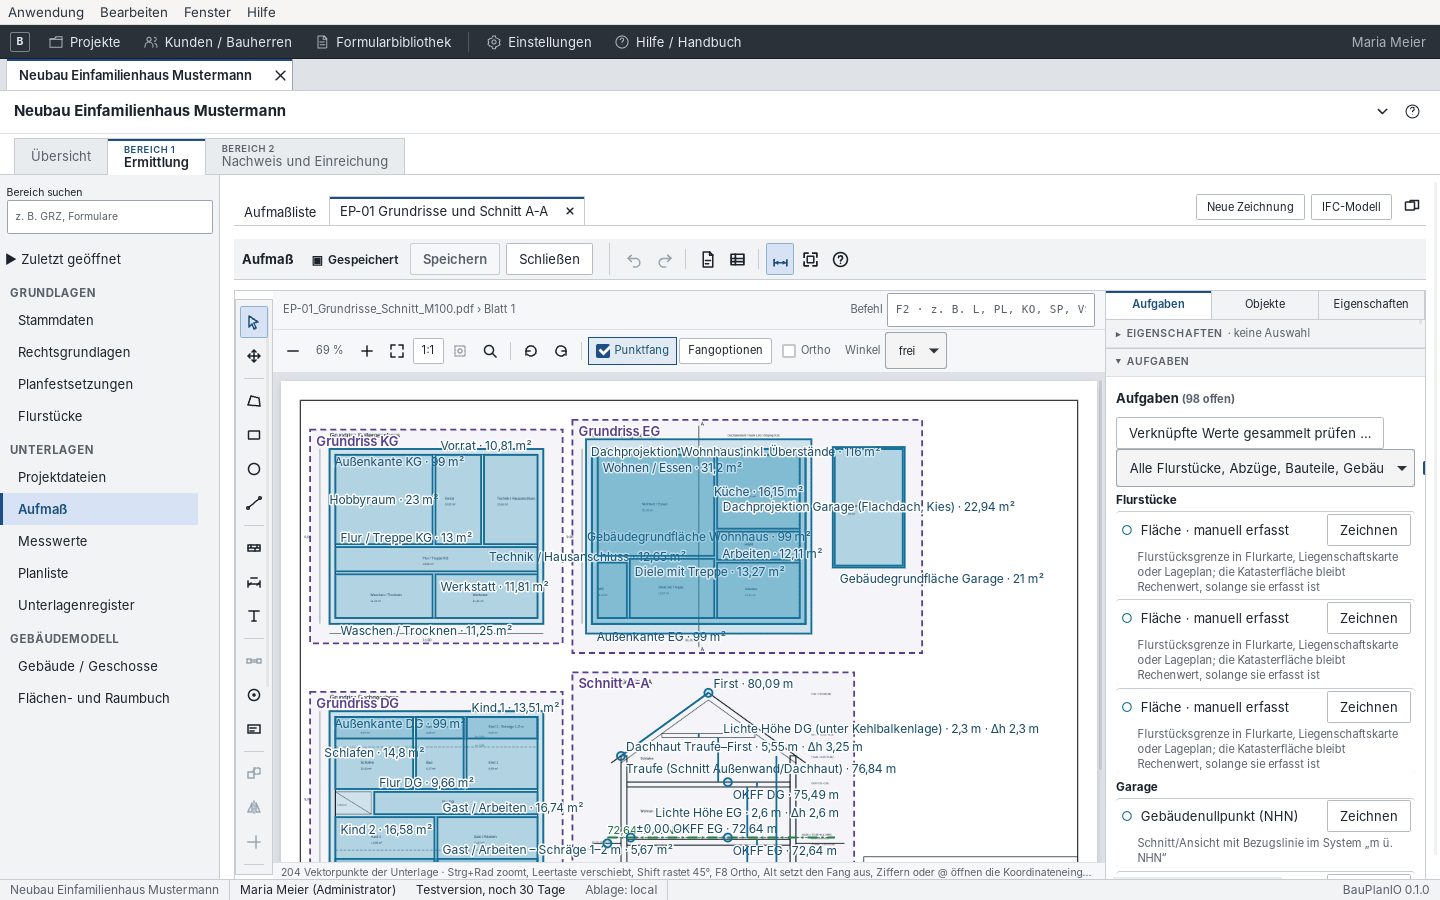
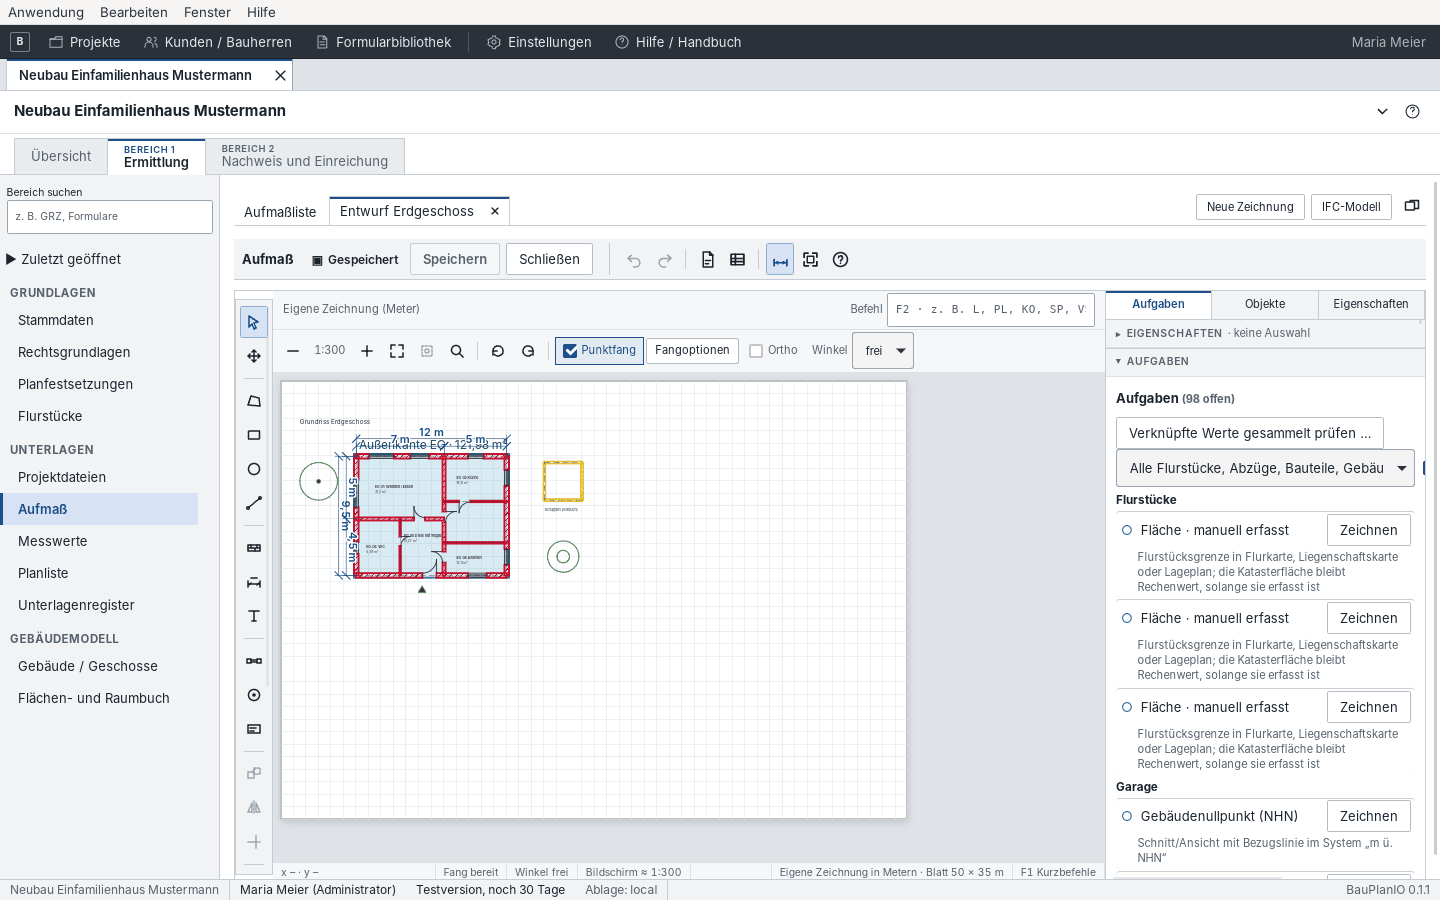
Zeicheneditor: Statusleiste in Feldern, Öffnungen passend, Auswahl im Palettenkopf
- Statusleiste zeigt Zeigerposition, Fang, Ortho/Winkel, Bildschirmmaßstab
  und Unterlage als Felder; die Tastenerklärung steht nur noch unter F1.
- Eigene Zeichnungen zeigen statt Zoomprozent den Bildschirmmaßstab 1:n.
- Kopf der Eigenschaften nennt auch gewählte Zeichenelemente statt
  „keine Auswahl“.
- Öffnungen einer Wand als zweizeilige Gruppen statt abgeschnittener Tabelle.
- Neue Auswahl setzt die Palettenspalte wieder an den Anfang.

Claude-Session: https://claude.ai/code/session_01292Y8gDm8pi6EMJRAxpPjM

diff --git a/apps/desktop/src/lib/planaufmass/Planaufmass.svelte b/apps/desktop/src/lib/planaufmass/Planaufmass.svelte
@@ -119,6 +119,9 @@
   let betrachterSeite=$state<number|null>(null),sichtbarkeit=$state<Record<string,boolean>>({});
   let aktiv=$state(""),rahmenAuswahl=$state(""),vollbild=$state(false),masse=$state(true),hoeheEditor=$state(560);
   // Zeichenelemente und Hintergründe eigener Zeichnungen.
+  let paletten=$state<HTMLElement>();
+  // Neue Auswahl: Eigenschaften stehen oben, die Spalte beginnt wieder am Anfang.
+  $effect(()=>{void auswahl;void elementAuswahl;if(panel==="eigenschaften")untrack(()=>paletten?.scrollTo({top:0}))});
   let elementAuswahl=$state(""),wanddicke=$state(.24),elementAuswahlIds=$state<string[]>([]);
   // Konstruktionsbefehle: Versatz und Reihe in Metern, Spiegeln wahlweise als Kopie.
   let konstruktion=$state({versatz:.5,anzahl:3,dx:1,dy:0,spiegelKopie:true});
@@ -181,6 +184,9 @@
   });
   let hgDatei=$state(""),hgSeite=$state(1),hgStrecke=$state(10),hgZiel=$state(""),hgWinkel=$state(0);
   const el=$derived(s.eingabe?.elemente?.find(e=>e.id===elementAuswahl));
+  const ELEMENTNAMEN:Record<string,string>={wand:"Wand",masskette:"Maßkette",symbol:"Planzeichen",raumstempel:"Raumstempel",text:"Text"};
+  // Kopfzeile der Eigenschaften: Markierungen und Zeichenelemente zählen gemeinsam.
+  const auswahlTitel=$derived.by(()=>{const n=auswahlIds.length+elementAuswahlIds.length;if(n>1)return `· ${n} ausgewählt`;if(m)return `· ${m.bezeichnung}`;if(el)return `· ${ELEMENTNAMEN[el.art]??"Zeichenelement"}`;return "· keine Auswahl"});
   const elementGesperrt=$derived(!darf||s.laeuft||!!s.eingabe?.ebenen.find(e=>e.id===el?.ebene_id)?.gesperrt);
   const istZeichnung=$derived(!!s.eingabe&&!s.eingabe.dokument);
   const einheitText=$derived(istZeichnung?"m":"Seitenpunkte");
@@ -867,7 +873,7 @@
         <button type="button" disabled={!darf||s.laeuft||!s.hatAenderungen()} onclick={()=>void s.speichern()}>Aufmaß speichern</button>
         <span class="editorwerkzeuge">{@render editorwerkzeuge()}</span>
       </div>{/if}
-      {#if hilfe}<section class="kurzbefehle" aria-label="Kurzbefehle"><strong>Zeichnen und navigieren</strong><p>V Auswählen · M Verschieben · P Polygon · R Rechteck · K Kreis · S Strecke · W Wand · L Maßkette · X Text · H Höhenpunkt · Z Zoomfenster · F11 Vollbild · F1 Hilfe</p><p>Strg+Rad zoomt · Leertaste verschiebt · Shift bindet Winkel · Alt setzt Fang aus · Shift+Klick erweitert die Auswahl · Pfeile verschieben die Auswahl · Enter schließt · Escape verwirft die laufende Aktion · Strg+Z zurück · Strg+Y / Strg+Shift+Z wiederholen.</p></section>{/if}
+      {#if hilfe}<section class="kurzbefehle" aria-label="Kurzbefehle"><strong>Zeichnen und navigieren</strong><p>V Auswählen · M Verschieben · P Polygon · R Rechteck · K Kreis · S Strecke · W Wand · L Maßkette · X Text · H Höhenpunkt · Z Zoomfenster · F11 Vollbild · F1 Hilfe</p><p>Strg+Rad zoomt · Leertaste verschiebt · Shift bindet Winkel · F8 Ortho · Alt setzt Fang aus · Ziffern oder @ öffnen die Koordinateneingabe · Shift+Klick erweitert die Auswahl · Pfeile verschieben die Auswahl · Enter schließt bzw. wiederholt den letzten Befehl · Escape verwirft die laufende Aktion · Strg+Z zurück · Strg+Y / Strg+Shift+Z wiederholen.</p></section>{/if}
       {#if vorlage}<p role="status" class="hinweisbox schmal">Vorlage <strong>{vorlage.titel}</strong> ({bedeutungen.find(b=>b[0]===vorlage!.bedeutung)?.[1]}) auf Ebene „{aktiv?layer?.bezeichnung??vorlage.ebene:vorlage.ebene}“ · {vorlage.hinweis}. <button type="button" class="link" onclick={()=>{vorlage=null;werkzeug="auswahl"}}>Abbrechen</button></p>{/if}
       {#if vorbelegung}<p role="status" class="hinweisbox schmal">Zeichnen für <strong>{vorbelegung.gruppe} · {vorbelegung.titel}</strong> ({bedeutungen.find(b=>b[0]===vorbelegung!.bedeutung)?.[1]}){vorbelegung.hinweis?` · ${vorbelegung.hinweis}`:""}. Bedeutung und Zuordnung werden gesetzt. <button type="button" class="link" onclick={()=>{vorbelegung=null;werkzeug="auswahl"}}>Abbrechen</button></p>{/if}
       {#if werkzeug==="hgstrecke"||werkzeug==="hgverschieben"||werkzeug==="hgdrehen"}<p role="status" class="hinweisbox schmal">{werkzeug==="hgstrecke"?`Auf dem Hintergrund Anfang und Ende einer bekannten Strecke (${z(hgStrecke)} m) anklicken; der Hintergrund wird darauf skaliert.`:werkzeug==="hgverschieben"?"Einen Punkt des Hintergrunds und dann seine Zielposition anklicken.":`Den Drehpunkt anklicken; der Hintergrund dreht sich um ${z(hgWinkel)}°.`}</p>{/if}
@@ -924,22 +930,25 @@
           {:else}<p class="meta leer">{laedt?"Unterlage wird geladen …":"Unter „Blatt und Einrichtung“ eine Unterlage auswählen."}</p>{/if}
           {#if messFehler}<p class="fehlertext" role="alert">Aufmaß prüfen: {messFehler}</p>{/if}
         </div>
-        <aside>
+        <aside bind:this={paletten}>
           <nav class="panelwahl" aria-label="Planpanel">{#each [["aufgaben","Aufgaben"],["objekte","Objekte"],["eigenschaften","Eigenschaften"]] as [id,titel]}<button type="button" class="sekundaer" class:aktiv={panel===id} aria-pressed={panel===id} onclick={()=>panelOeffnen(id)}>{titel}</button>{/each}</nav>
           <details class="palette" bind:open={offen.eigenschaften}>
-            <summary><h3>Eigenschaften</h3> <span class="meta">{m?`· ${m.bezeichnung}`:auswahlIds.length>1?`· ${auswahlIds.length} ausgewählt`:"· keine Auswahl"}</span></summary>
+            <summary><h3>Eigenschaften</h3> <span class="meta">{auswahlTitel}</span></summary>
             {#if el}
               <fieldset disabled={elementGesperrt} class="element-eigenschaften" aria-label="Zeichenelement">
                 <legend>{el.art==="wand"?"Wand":el.art==="masskette"?"Maßkette":el.art==="symbol"?"Planzeichen":el.art==="raumstempel"?"Raumstempel":"Text"}</legend>
                 {#if el.art==="wand"}<label>Wanddicke (m)<input type="number" min=".01" max="10" step=".01" bind:value={el.dicke_m}/></label>
-                  {#if el.oeffnungen?.length}<div class="oeffnungen-rahmen"><table class="oeffnungen"><thead><tr><th>Art</th><th>ab (m)</th><th>Breite</th><th>Höhe</th><th>Brüstung</th><th>Anschlag</th><th></th></tr></thead><tbody>
-                    {#each el.oeffnungen as o,i}<tr><td><select aria-label="Art" bind:value={o.art}><option value="fenster">Fenster</option><option value="tuer">Tür</option></select></td>
-                      <td><input type="number" min="0" step=".01" aria-label="Lage ab Wandanfang" bind:value={o.lage_m}/></td><td><input type="number" min=".1" step=".005" aria-label="Breite" bind:value={o.breite_m}/></td>
-                      <td><input type="number" min="0" step=".005" aria-label="Höhe" value={o.hoehe_m??""} onchange={e=>{const v=e.currentTarget.value;if(v)o.hoehe_m=Number(v);else delete o.hoehe_m}}/></td>
-                      <td>{#if o.art==="fenster"}<input type="number" min="0" step=".005" aria-label="Brüstung" value={o.bruestung_m??""} onchange={e=>{const v=e.currentTarget.value;if(v)o.bruestung_m=Number(v);else delete o.bruestung_m}}/>{/if}</td>
-                      <td>{#if o.art==="tuer"}<select aria-label="Anschlag" bind:value={o.links}><option value={false}>rechts</option><option value={true}>links</option></select>{/if}</td>
-                      <td><button type="button" class="link" onclick={()=>{if(el?.art==="wand"){merken();el.oeffnungen=el.oeffnungen!.filter((_,j)=>j!==i)}}}>Entfernen</button></td></tr>{/each}
-                  </tbody></table></div>{:else}<p class="meta">Fenster und Türen mit dem Werkzeug „Fenster / Tür“ (F) in die Wand klicken.</p>{/if}
+                  {#if el.oeffnungen?.length}<div class="oeffnungen">
+                    {#each el.oeffnungen as o,i}<div class="oeffnung" role="group" aria-label={`Öffnung ${i+1}`}>
+                      <label>Art<select aria-label="Art" bind:value={o.art}><option value="fenster">Fenster</option><option value="tuer">Tür</option></select></label>
+                      <label>ab (m)<input type="number" min="0" step=".01" aria-label="Lage ab Wandanfang" bind:value={o.lage_m}/></label>
+                      <label>Breite<input type="number" min=".1" step=".005" aria-label="Breite" bind:value={o.breite_m}/></label>
+                      <button type="button" class="link entfernen" title="Öffnung entfernen" aria-label="Öffnung entfernen" onclick={()=>{if(el?.art==="wand"){merken();el.oeffnungen=el.oeffnungen!.filter((_,j)=>j!==i)}}}>✕</button>
+                      <label>Höhe<input type="number" min="0" step=".005" aria-label="Höhe" value={o.hoehe_m??""} onchange={e=>{const v=e.currentTarget.value;if(v)o.hoehe_m=Number(v);else delete o.hoehe_m}}/></label>
+                      {#if o.art==="fenster"}<label>Brüstung<input type="number" min="0" step=".005" aria-label="Brüstung" value={o.bruestung_m??""} onchange={e=>{const v=e.currentTarget.value;if(v)o.bruestung_m=Number(v);else delete o.bruestung_m}}/></label>
+                      {:else}<label>Anschlag<select aria-label="Anschlag" bind:value={o.links}><option value={false}>rechts</option><option value={true}>links</option></select></label>{/if}
+                    </div>{/each}
+                  </div>{:else}<p class="meta">Fenster und Türen mit dem Werkzeug „Fenster / Tür“ (F) in die Wand klicken.</p>{/if}
                 {:else if el.art==="symbol"}<label>Planzeichen<select bind:value={el.symbol}>{#each PLANSYMBOLE as [v,t]}<option value={v}>{t}</option>{/each}</select></label><label>Größe ({einheitText})<input type="number" min=".01" step="any" bind:value={el.groesse}/></label><label>Drehung (°)<input type="number" step="any" bind:value={el.drehung_grad}/></label>
                 {:else if el.art==="raumstempel"}<label>Raum<select value={`${el.raumbuch_id}|${el.raum_id}`} onchange={e=>{const [a,b]=e.currentTarget.value.split("|");if(el?.art==="raumstempel"&&b){el.raumbuch_id=a;el.raum_id=b}}}>{#if !raeume[el.raum_id]}<option value={`${el.raumbuch_id}|${el.raum_id}`}>Raum fehlt im Raumbuch</option>{/if}{#each raumbuecher as rb (rb.objekt)}<optgroup label={rb.daten.bezeichnung}>{#each rb.daten.raeume as r (r.id)}<option value={`${rb.objekt}|${r.id}`}>{r.nummer} {r.bezeichnung}</option>{/each}</optgroup>{/each}</select></label><label>Schrifthöhe ({einheitText})<input type="number" min=".01" step="any" bind:value={el.hoehe}/></label>
                 {:else if el.art==="masskette"}<label>Abstand der Maßlinie ({einheitText})<input type="number" step="any" bind:value={el.abstand}/></label>
@@ -1320,11 +1329,13 @@
   .mehrfach{padding:.5rem;border:1px solid var(--border);margin:.5rem 0}
   .planzeichenwahl{display:flex;flex-wrap:wrap;gap:.6rem;align-items:center}
   .planzeichenwahl label{display:flex;gap:.3rem;align-items:center}
-  /* Die Öffnungstabelle ist breiter als die Palette: sie rollt waagerecht, statt die ganze Palette zu verbreitern. */
-  .oeffnungen-rahmen{width:0;min-width:100%;overflow-x:auto}
-  .oeffnungen{width:100%;font-size:.8rem;border-collapse:collapse}
-  .oeffnungen input,.oeffnungen select{width:100%;min-width:4.4rem;font-size:.8rem}
-  .oeffnungen select{min-width:5.5rem}
+  /* Öffnungen als zweizeilige Gruppen: passen in die Palettenbreite, nichts wird abgeschnitten. */
+  .oeffnungen{display:grid;gap:.4rem}
+  .oeffnung{display:grid;grid-template-columns:minmax(0,1.3fr) minmax(0,1fr) minmax(0,1fr) auto;gap:.3rem .4rem;align-items:end;padding:.35rem .4rem;border:1px solid var(--border-innen);background:var(--leiste)}
+  .oeffnung label:not(:has(> input[type=checkbox])){font-size:.75rem}
+  .oeffnung input,.oeffnung select{min-width:0;font-size:.8rem}
+  .oeffnung .entfernen{align-self:end;padding:0 .3rem 6px;grid-column:4;grid-row:1}
+  .oeffnung label:nth-of-type(4),.oeffnung label:nth-of-type(5){grid-row:2}
   .ebenendarstellung{margin:0 0 .3rem 1.6rem;font-size:.85rem}
   .konstruieren{padding:.5rem;border:1px solid var(--border);margin:.5rem 0}
   .konstruieren h3{margin:0 0 .4rem;font-size:.9rem}

diff --git a/apps/desktop/src/lib/planaufmass/PdfPlan.svelte b/apps/desktop/src/lib/planaufmass/PdfPlan.svelte
@@ -108,6 +108,8 @@
   // Markierungen anderer Ausschnitte bleiben sichtbar, aber nicht bedienbar.
   const fremd=(m:Planmarkierung)=>!!aktiv&&(m.ausschnitt_id??"")!==aktiv;
   const faktor=$derived(meterProPunkt(ausschnitt?.kalibrierung??kalibrierung));
+  // Bildschirmmaßstab 1:n bei 96 dpi; aussagekräftiger als Prozent, sobald das Blatt in Metern rechnet.
+  const bildschirmNenner=$derived.by(()=>{if(!faktor||!zoom)return null;const n=faktor/(zoom*0.0254/96);return n>=100?Math.round(n/10)*10:Math.max(1,Math.round(n))});
   const aktiveKalibrierung=$derived(ausschnitt?.kalibrierung??kalibrierung);
   const gedreht=$derived(drehung%180!==0);
   const blatt=$derived(plan?dxfBlatt(plan):null);
@@ -119,6 +121,7 @@
   // Größe des gedrehten Blattes in Seitenpunkten (Box, in der gescrollt wird).
   const boxB=$derived(gedreht?hoehe:breite), boxH=$derived(gedreht?breite:hoehe);
   const z=(n:number,stellen=2)=>n.toLocaleString("de-DE",{maximumFractionDigits:stellen});
+  const koordinate=$derived(cursor?faktor?`x ${z(cursor[0]*faktor)} · y ${z(cursor[1]*faktor)} m`:`x ${z(cursor[0],0)} · y ${z(cursor[1],0)} pt`:"x – · y –");
   const rect=(a:{id?:string;von:Point;bis:Point})=>{const r=a.id&&rahmenVorschau?.id===a.id?rahmenVorschau:a;return {x:Math.min(r.von[0],r.bis[0]),y:Math.min(r.von[1],r.bis[1]),w:Math.abs(r.bis[0]-r.von[0]),h:Math.abs(r.bis[1]-r.von[1])}};
   // Seitenpunkt → Punkt der gedrehten Box (Seitenpunkte, ohne Zoom).
   function boxPunkt(p:Point):Point{
@@ -656,7 +659,7 @@
 <div class="pdf-plan">
   <div class="plan-kopf" role="toolbar" aria-label="Ansicht">
     <Symbolknopf titel="Verkleinern" disabled={!bereit} onclick={()=>zoomMitte(1/1.25)}><WerkzeugIcon art="minus"/></Symbolknopf>
-    <span class="zoom">{Math.round(zoom*100)} %</span>
+    <span class="zoom" title={bildschirmNenner?`Bildschirm ≈ 1:${bildschirmNenner.toLocaleString("de-DE")} · ${Math.round(zoom*100)} %`:undefined}>{zeichnung&&bildschirmNenner?`1:${bildschirmNenner.toLocaleString("de-DE")}`:`${Math.round(zoom*100)} %`}</span>
     <Symbolknopf titel="Vergrößern" disabled={!bereit} onclick={()=>zoomMitte(1.25)}><WerkzeugIcon art="plus"/></Symbolknopf>
     <Symbolknopf titel="Einpassen" disabled={!bereit} onclick={einpassen}><WerkzeugIcon art="einpassen"/></Symbolknopf>
     {#if !plan&&!zeichnung}<button type="button" class="sekundaer text" disabled={!bereit} onclick={()=>{zoom=1}} title="72 Punkte je Zoll">1:1</button>{/if}
@@ -782,8 +785,16 @@
       </div>
     </div>
   </div>
-  <p class="meta status" role="status">{vorschau?`Vorschau: ${vorschau} · `:""}{fangart || (zeichnung?`Eigene Zeichnung in Metern · Blatt ${z(breite,0)} × ${z(hoehe,0)} m${geometry.points.length?` · ${geometry.points.length} Fangpunkte der Hintergründe`:""}`:geometry.points.length?`${geometry.points.length} Vektorpunkte der Unterlage`:"Keine Vektorpunkte – manuell zeichnen")}
-    {geometry.limited?" · Vektorumfang begrenzt":""}{drehung?` · Ansicht ${drehung}° gedreht`:""} · Strg+Rad zoomt, Leertaste verschiebt, Shift rastet 45°, F8 Ortho, Alt setzt den Fang aus, Ziffern oder @ öffnen die Koordinateneingabe. Enter schließt bzw. wiederholt den letzten Befehl, Escape bricht ab.</p>
+  <div class="statusleiste meta" aria-label="Statusleiste">
+    <span class="feld koordinate" title="Zeigerposition">{koordinate}</span>
+    <span class="feld" title="Fang">{fangart||(fang?"Fang bereit":"Fang aus")}</span>
+    <span class="feld">{ortho?"Ortho":winkelraster?`Winkel ${winkelraster}°`:"Winkel frei"}</span>
+    {#if bildschirmNenner}<span class="feld" title="Maßstab der Bildschirmdarstellung (96 dpi)">Bildschirm ≈ 1:{bildschirmNenner.toLocaleString("de-DE")}</span>{/if}
+    {#if drehung}<span class="feld">Ansicht {drehung}° gedreht</span>{/if}
+    {#if vorschau}<span class="feld">Vorschau: {vorschau}</span>{/if}
+    <span class="feld quelle" role="status">{zeichnung?`Eigene Zeichnung in Metern · Blatt ${z(breite,0)} × ${z(hoehe,0)} m${geometry.points.length?` · ${geometry.points.length} Fangpunkte der Hintergründe`:""}`:geometry.points.length?`${geometry.points.length} Vektorpunkte der Unterlage`:"Keine Vektorpunkte – manuell zeichnen"}{geometry.limited?" · Vektorumfang begrenzt":""}</span>
+    <span class="feld" title="Kurzbefehle mit F1">F1 Kurzbefehle</span>
+  </div>
 </div>
 
 {#snippet figur(g:Plangeometrie,selected:boolean,st:string="")}
@@ -911,5 +922,8 @@
   svg .gewaehlt :is(path,polygon,rect,circle,line){stroke:#ad530a;stroke-width:2.5}
   .masseingabe{position:absolute;z-index:2;margin:0}
   .masseingabe input{width:11rem;font-size:.85rem;padding:.2rem .4rem;border:1px solid #ad530a;border-radius:3px;background:white}
-  .status{padding:3px 8px;margin:0;font-size:.8rem;min-height:1.6em;border-top:1px solid var(--border-innen);background:var(--leiste);white-space:nowrap;overflow:hidden;text-overflow:ellipsis}
+  .statusleiste{display:flex;align-items:stretch;margin:0;font-size:.8rem;min-height:1.7em;border-top:1px solid var(--border-innen);background:var(--leiste);white-space:nowrap;overflow:hidden;font-variant-numeric:tabular-nums}
+  .statusleiste .feld{padding:2px 8px;border-right:1px solid var(--border-innen);display:flex;align-items:center}
+  .statusleiste .koordinate{min-width:12.5rem}
+  .statusleiste .quelle{margin-left:auto;border-left:1px solid var(--border-innen);min-width:0;overflow:hidden;text-overflow:ellipsis;display:block;line-height:1.6}
 </style>

diff --git a/docs/handbuch/benutzerhandbuch/05-ermittlung.md b/docs/handbuch/benutzerhandbuch/05-ermittlung.md
@@ -64,9 +64,9 @@ Bildschirm; die Akte bleibt im Hauptfenster bedienbar.
 | --- | --- |
 | Kopfleiste | Speichern, Schließen, Rückgängig/Wiederholen, „Aufmaßblatt PDF …“, „Messwerte CSV …“, Maße anzeigen, Vollbild (F11), Kurzbefehle (F1) |
 | Werkzeugleiste links | Auswählen (V), Verschieben (M), Polygon (P), Rechteck (R), Kreis (K), Strecke / Dach (S), Wand (W), Maßkette (L), Text (X), Höhenpunkt (H), Bezugslinie setzen, Ausschnitt anlegen, Zwei Punkte kalibrieren, Kontrollstrecke messen, Duplizieren, Markierung entfernen |
-| Ansichtsleiste | Zoom, Einpassen, 1:1, Auf Auswahl, Zoomfenster (Z), drehen, **Punktfang** und Fangoptionen |
+| Ansichtsleiste | Zoom (bei eigenen Zeichnungen als Bildschirmmaßstab 1:n), Einpassen, 1:1, Auf Auswahl, Zoomfenster (Z), drehen, **Punktfang** und Fangoptionen |
 | Paletten rechts | **Aufgaben** (was noch gezeichnet bzw. übernommen werden muss), **Objekte** (Ausschnitte, Zeichenebenen, Markierungen), **Eigenschaften** (der Auswahl), **Werkzeugkiste** (Vorlagen) |
-| Fußzeile | Kurzhilfe zu Maus und Tastatur |
+| Statusleiste | Zeigerposition in Metern, aktiver Fang, Ortho bzw. Winkelraster, Bildschirmmaßstab, Unterlage bzw. Blattgröße; die Tastenbelegung zeigt F1 |
 
 Alle Werkzeuge erscheinen als Symbol; der Name und das Tastenkürzel stehen im
 Tooltip. Die vollständige Tastenbelegung: [Kapitel 10](10-anhang.md#zeicheneditor).
